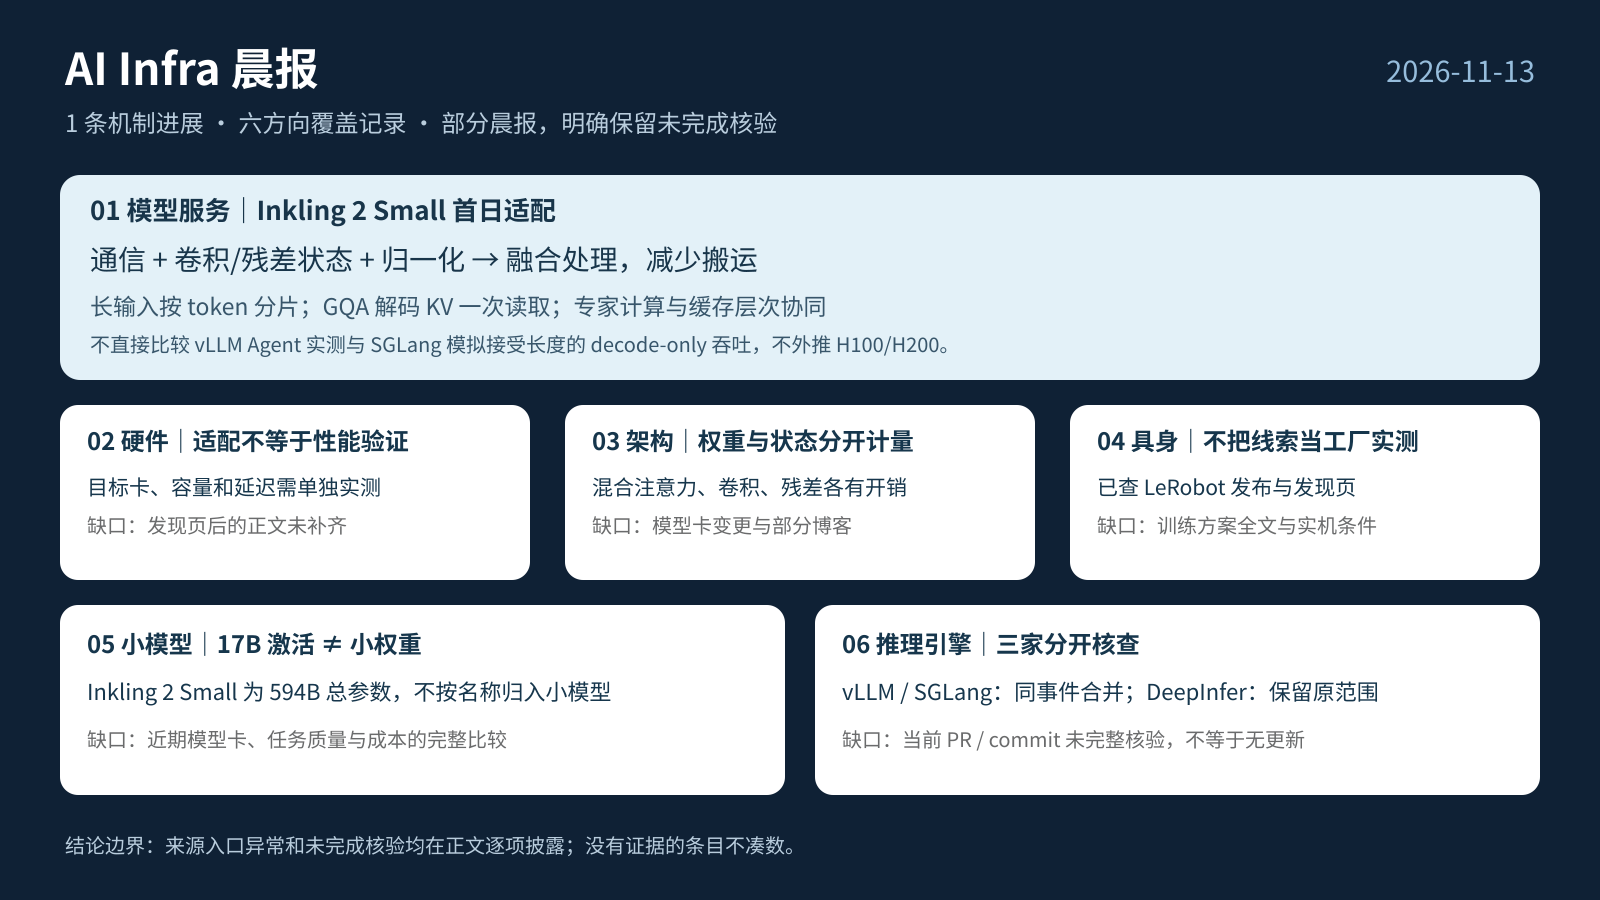
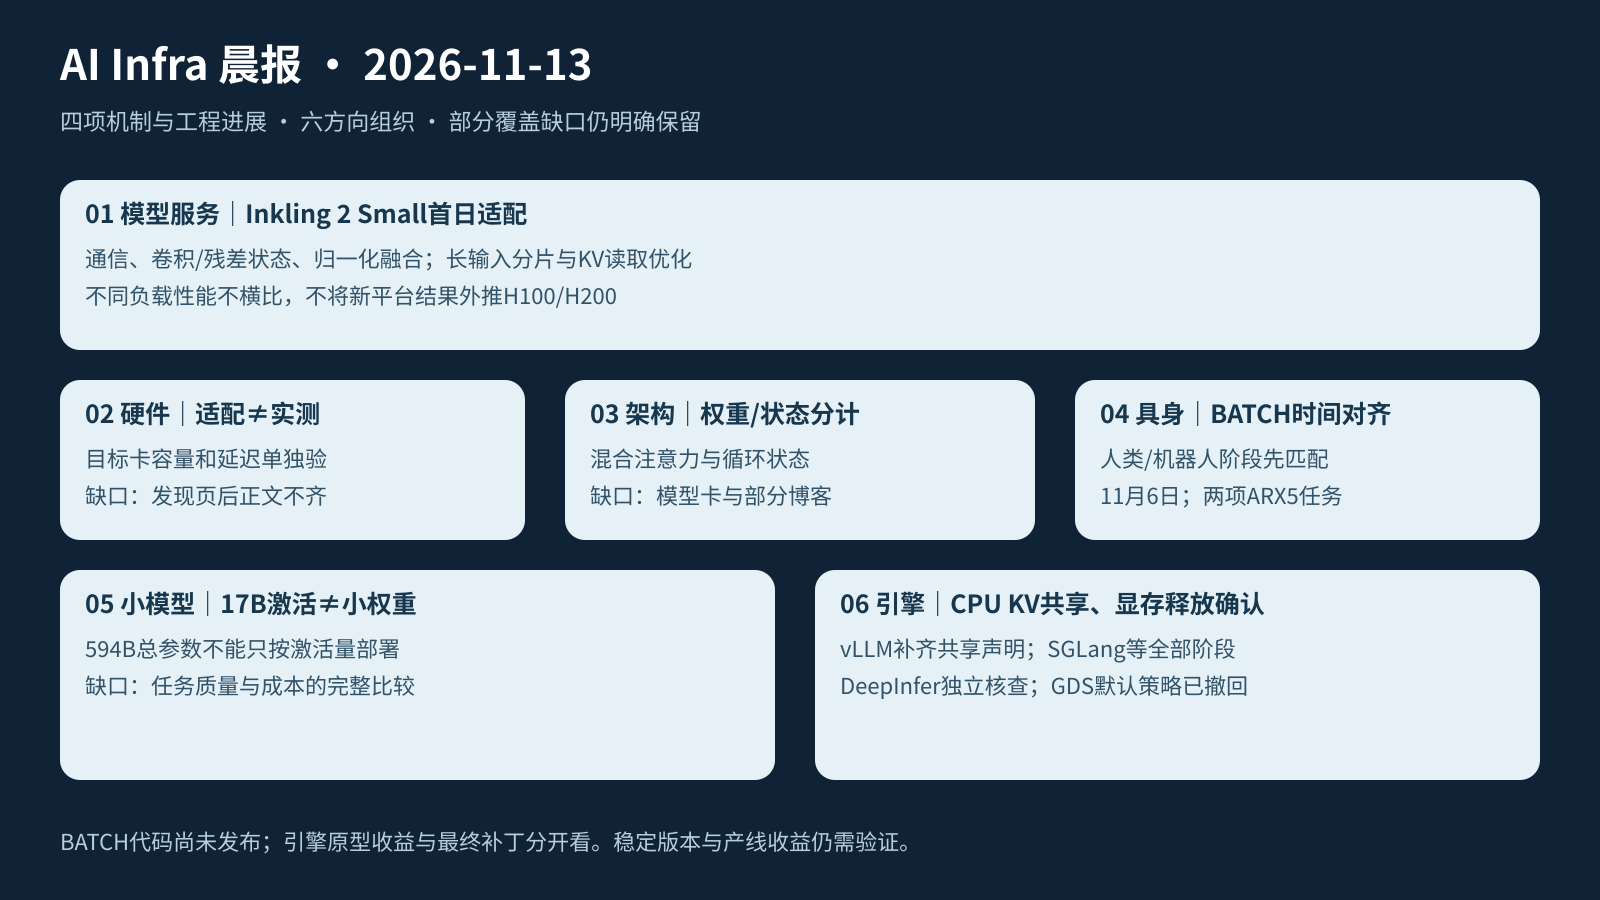
docs(report): complete engine and embodied coverage (#100)

diff --git a/reports/2026-11-13/articles/inference-engines.md b/reports/2026-11-13/articles/inference-engines.md
@@ -1,21 +1,35 @@
-# 推理引擎每日变动：技术文章已读，代码覆盖有缺口
+# 推理引擎每日变动：共享 CPU KV 与显存释放确认
 
-本篇保留三家引擎的独立核查状态。Inkling 2 Small两家首日适配已合并到[同一技术主文](https://sfcloud-ai.github.io/ai-infra-reports/2026-11-13/model-serving-gpu/)，这里不重复计作新闻。
+除明确标注外，下文合入时间均为北京时间。代码发现窗口为北京时间 11 月 12 日 07:20 至 11 月 13 日 07:20。补查读取该窗口默认分支的 vLLM 95 条、SGLang 87 条提交，均少于单页 100 条上限；以下具体事项另核对 PR 正文、合并时间与最终文件差异。合入主线不等于已进入稳定发行版。
 
-## vLLM
+## vLLM：CPU KV 共享不能漏掉压缩器状态
 
-已读[官方博客归档](https://vllm.ai/blog/archive)和[11月12日Inkling文章](https://vllm.ai/blog/2026-11-12-inkling2-small)，原始Markdown提供2026-11-12 09:00 UTC时间。主文涉及层边界融合、长输入sequence parallelism和6:1 GQA解码kernel。
+DeepSeek V4.1 的张量并行副本持有相同缓存内容时，把每份都卸载到主机内存仍会浪费容量。[#65373](https://github.com/vllm-project/vllm/pull/65373) 于 11 月 12 日 18:59:07 合入，提交为 `9a77b4201bc4551f7e23ce59758dcbe6410c9e10`。
 
-所读[release列表](https://api.github.com/repos/vllm-project/vllm/releases?per_page=5)最新版本为v0.33.0rc3、时间11月2日；未完成最新commit/PR核查，不能据此称代码没有更新。文章的day-0支持也不等于本期已确认稳定release或精确可复现commit。
+最终补丁在压缩器循环状态的缓存规格中补上 `max_tp_shards=1`，使已有 CPU 卸载共享路径知道这份状态在 TP rank 间重复，而非需要分别分片。主 KV 与索引器 K 在所核对提交中也具有同一声明；新增测试逐一检查三个缓存生产者。这里没有重写缓存接口、规划器或连接器，也不是不同模型共享权重。
 
-## SGLang
+作者报告的共享主机原型实验使用 8 张 H100、TP8，每 rank 20 GiB GPU KV，双方总 CPU KV 均为 64 GiB；以 407 个 LongBench v2 上下文重放 3,072 个请求，并发 8、chunks=1、最多输出128 token。请求吞吐从0.961到5.785次/秒，输出吞吐25.60到146.09 token/秒，P95首 token 延迟11.30秒到0.95秒。收益涉及固定总主机预算下重复缓存的消除，不能推广成任意负载约6倍加速。
 
-已读[博客列表](https://www.sglang.io/blog)和[Inkling支持正文](https://www.sglang.io/blog/inkling-2-small-day0-support)，日期精度为11月12日。统一缓存、HiCache、MegaMoE和relative-bias attention的机制与实验限制见主文。性能图是decode-only且接受长度模拟为3.5，不是端到端线上SLO结果。
+PR评论另有 DeepSeek-V4.1-Flash-1017 的 GSM8K 25-shot、TP8、8×H100 三轮作者自测，包含冷运行及CPU缓存重载，报告准确率落在相近误差范围。它不是独立复现；上述原型性能表也不是最终这一行差异在合并提交上的重新对照测试。因此可确认实现和测试边界，不能把6倍当作这一个最终补丁的独立实测收益。
 
-所读[release列表](https://api.github.com/repos/sgl-project/sglang/releases?per_page=5)最新v0.5.23发布于11月2日；未补齐最新commit/PR与完整recipe，保留代码覆盖缺口。[LMSYS博客入口](https://www.lmsys.org/blog/)未取得可用当前文章列表，不能写成无新文章。
+![共享CPU缓存与流水线释放确认的简化示意；不是完整实现时序](assets/engine-coordination.png)
 
-## DeepInfer
+## SGLang：返回“显存已释放”必须覆盖所有流水线阶段
 
-已单独读[官方仓库](https://github.com/deepseek-ai/DeepInfer)和[默认分支最近5条提交](https://api.github.com/repos/deepseek-ai/DeepInfer/commits?per_page=5)。所读最新提交为a679bb86ce36e883a98a97733492b686e5b9a08e，时间2026-11-03 07:31:40 UTC，早于本期一周窗口；在这个明确范围内未选出合格新变动。README静态能力及早期文档变更不作为本期新闻。
+训练与推理轮流使用同一组GPU时，调度器收到释放成功后可能立即启动训练。如果只有第一段流水线释放，后续阶段仍占显存，训练就可能OOM。[#49798](https://github.com/sgl-project/sglang/pull/49798) 于11月12日21:34:47合入，提交 `30593f940be2fa9d2b4468606007930374f71e36`，修复这项完成确认。
 
-另读[官方infra索引](https://github.com/deepseek-ai/open-infra-index)，没有把索引时间当成技术文章发布时间。该核查不代表全仓库所有分支/PR或全部站点已查清。DeepInfer与FlashInfer不是同一项目，不混称。
+补丁让各流水线阶段逐段汇总释放结果，任一阶段拒绝就保留拒绝；首阶段完成释放后，等末阶段返回结果才答复调用者。首阶段繁忙时立即拒绝，不阻塞后续流水线继续运转。TP组先汇总是否有繁忙rank，所有rank一致决定释放或拒绝，并在释放后同步，避免一部分rank提前退出、另一部分永远等屏障。结果消息使用独立tag，与原有阶段间消息分开。
+
+新增单测覆盖首阶段不能提前答复、繁忙立即拒绝、后续阶段保留前面的拒绝、请求与结果的发送次序，以及TP同伴繁忙时禁止单独释放。作者还报告 Qwen2.5-0.5B、H100、`--enable-memory-saver` 的单/双节点PP与TP组合测试：空闲释放成功，运行中请求拒绝且生成继续完成；包含pp3/tp2的6张卡，以及40轮并发释放。这里证明的是所测组合的释放确认和拒绝路径，不是大模型训练吞吐提升；PR页面的扩展及AMD CI仍有失败标记，不能写成全平台全部测试通过。
+
+### 默认GDS淘汰策略已撤回，不能按当前可用优化接入
+
+[#49430](https://github.com/sgl-project/sglang/pull/49430) 的混合模型循环状态GDS淘汰于当天短暂合入，但 [#50118](https://github.com/sgl-project/sglang/pull/50118) 已在11月12日21:42:09撤回整个改动，提交 `7b790e1c5f3f2601c3d9c549ad24eaf7ee0d5938`。维护者说明它未经充分约定便把所有相应模型的默认策略由LRU改成GDS，而证据仅来自一个模型、一条trace。因此不能把它当作当前默认可用优化推荐。
+
+## DeepInfer：在已读默认分支范围内未见窗口内变动
+
+已单独读[官方仓库](https://github.com/deepseek-ai/DeepInfer)和[默认分支最近5条提交](https://api.github.com/repos/deepseek-ai/DeepInfer/commits?per_page=5)。所读最新提交为`a679bb86ce36e883a98a97733492b686e5b9a08e`，时间2026年11月3日07:31:40 UTC，早于本期一周窗口；在这个明确范围内未选出合格新变动。README静态能力及早期文档变更不作为本期新闻。另读[官方infra索引](https://github.com/deepseek-ai/open-infra-index)，不把索引时间当成技术文章发布时间。该核查不代表全仓库所有分支和PR已查清，DeepInfer也不等同FlashInfer。
+
+## 博客与代码分开核验
+
+当天Inkling 2 Small的vLLM、SGLang官方文章已在主文分析，不把博客day-0支持当成精确稳定版本证明，也不直接横比不同负载的性能图。上述代码补查不替代其他板块未完成的正文取证。

diff --git a/reports/2026-11-13/articles/embodied-training.md b/reports/2026-11-13/articles/embodied-training.md
@@ -1,7 +1,31 @@
-# 制造业具身训练：发现线索尚未完成全文核验
+# BATCH：先对齐人的示范和机械臂动作，再训练跨场景操作
 
-**本栏为覆盖状态，不计作新闻。** 已读取[LeRobot发布列表](https://api.github.com/repos/huggingface/lerobot/releases?per_page=3)和[NVIDIA官方技术博客发现页](https://developer.nvidia.com/blog/)。所读LeRobot最新release为2026-11-05 17:13:20 UTC，早于本期一周窗口起点2026-11-05 23:20 UTC；发现页中的机器人线索没有取得完整文章和训练/实机资料。
+工人拿杯子、摆托盘通常比机械臂快，中间还可能换手或复位。如果直接把两段视频按帧配对，人的“已经放好”可能对应机器人的“还在伸手”。训练服务要先解决动作阶段错位，才谈得上用较便宜的人类视频扩充机器人数据。
 
-因此本期制造业具身训练覆盖未完成，不能把未核查写成没有新进展，也不能将仿真训练、实验室演示或普通机器人新闻等同于工厂生产实测。
+[BATCH原论文及附录](https://arxiv.org/html/2611.10148v1)于[2026年11月6日19:12:29 UTC首次提交](https://arxiv.org/abs/2611.10148)，属于扩展的一周研究窗口，不是今天刚发布的论文。其目标是把人类演示迁移到机器人操作，尚不是制造业产线验收结果。
 
-当前不据这些线索推荐GPU训练配置或承诺产线收益。后续需要完整核对数据采集方式、仿真与实机比例、训练硬件和时间、基线、工况变化、安全边界及实际部署成功率。
+## 核心流程：先找对应阶段，再联合学视频和动作
+
+方法先从尚未对齐的人类和机器人演示学习共享时间特征，训练目标使用时间循环一致性（temporal cycle-consistency）。随后用子序列动态时间规整（subsequence DTW，允许演示各段速度不同的序列匹配方法）恢复对应行为的逐帧关系。这是先学习时间特征、再求序列对应的两步，不是把全部视频按同一帧号硬配。在对齐后的数据上联合训练视频与动作，并学习从人的画面预测机器人的画面。相较于直接把两种视频混在一起，关键增量是明确处理“同一动作做到哪一步”，而非假设人的第十帧就是机器人的第十帧。
+
+![人类与机器人演示的时间对齐训练流程；为作者方法的简化示意，非完整网络结构](assets/embodied-alignment.png)
+
+图把对齐和策略训练分开，便于理解数据流；不代表不再需要机器人示范，也不表示在线运行会重新训练。动作顺序差异过大时仍可能对齐失败。
+
+## 实验究竟证明了什么
+
+原论文实机实验只有两项ARX5操作任务。作者项目页对比了相同人类数据随机配对和时间对齐：Object in Container的归一化得分为0.42与0.63；Cup on Saucer的成功率为50%与83.3%。前一个指标不是成功率，不能把0.63写成63%的任务成功率。评价从仅用域内机器人示范预训练的策略出发，再用每个新场景5–8条人类示范后训练；新场景中包含机器人此前未见的背景和物体。已有机器人示范仍是基础，不能说只用人类视频从零学会操作。
+
+训练使用4张RTX PRO 6000 Blackwell Server Edition 96GB。RTX5090上的单臂、双臂推理延迟分别为0.35秒、0.42秒。论文的动作执行采用10Hz，并从16步预测中执行前8步；动作执行频率与一次模型推理耗时不是同一个指标，不能把上述延迟解读成整个系统每0.1秒完成一次新推理。
+
+这些均为作者报告，尚无本次独立实机复现。两项桌面操作与少量新场景演示不等于已验证复杂工位、多机器人协作、长时间无人值守或安全关键任务。
+
+## 对训练服务交付的价值和门槛
+
+值得评估的交付路径是：已有机械臂示范作基础，新增少量工人视频，先检查动作阶段能否可靠匹配，再做跨场景适配和实机验收。潜在价值是减少每个新场景专门采集机器人示范的负担；论文没有给出工厂训练总成本下降的可核验账单，不能承诺降本比例。
+
+[作者项目页](https://batch-embodiment.github.io/)当前明确标注“Code (coming soon)”。因此可研究方案、准备数据和评价任务，但尚不能承诺按公开完整代码直接复现或生产交付；训练硬件容量、机器人数据采集、推理延迟和现场安全约束都要单独评估。
+
+## 其他发现页线索的边界
+
+已续读NVIDIA发现页列出的Cosmos 3 Edge（8月19日）、世界动作模型综述（8月4日）、Microduck仿真训练（10月23日）、COMPASS导航（8月26日），均为本周窗口外旧文，不计入本期新进展。11月9日Holoscan 5文章主要是控制运行时与重力补偿，不能当作新的机器人训练成果。此前发现页可读但正文未续读，不应称为访问故障。
